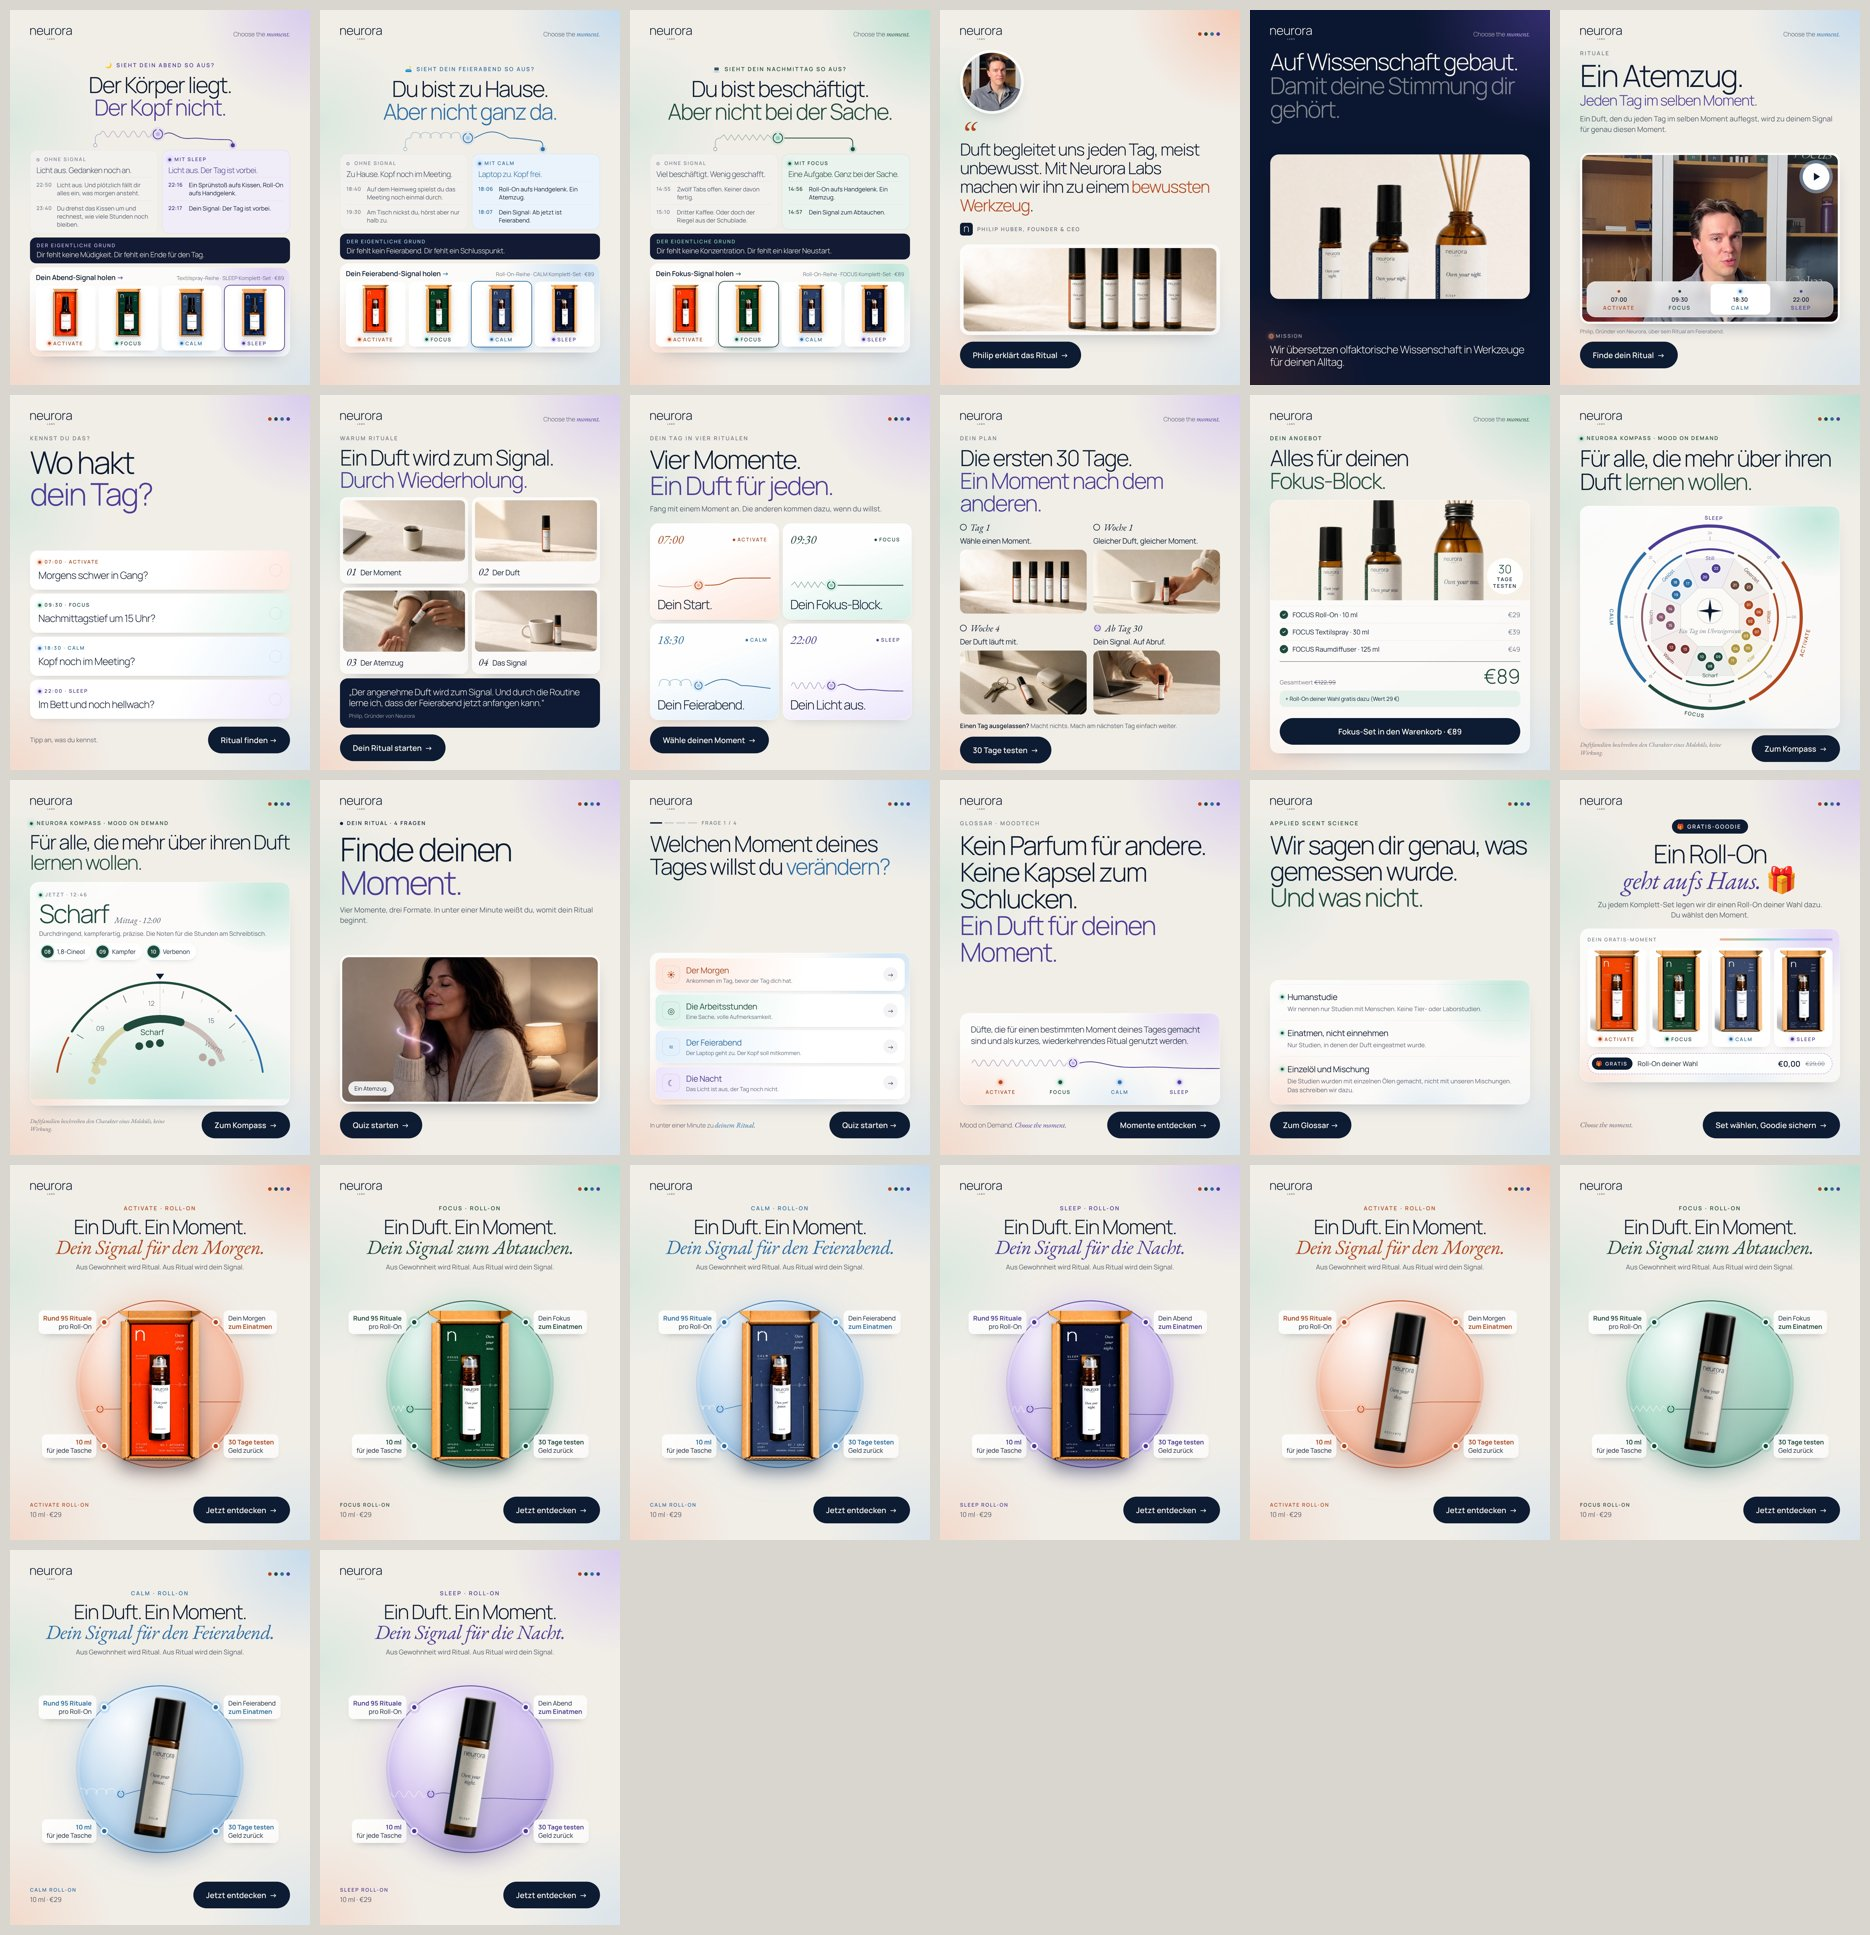
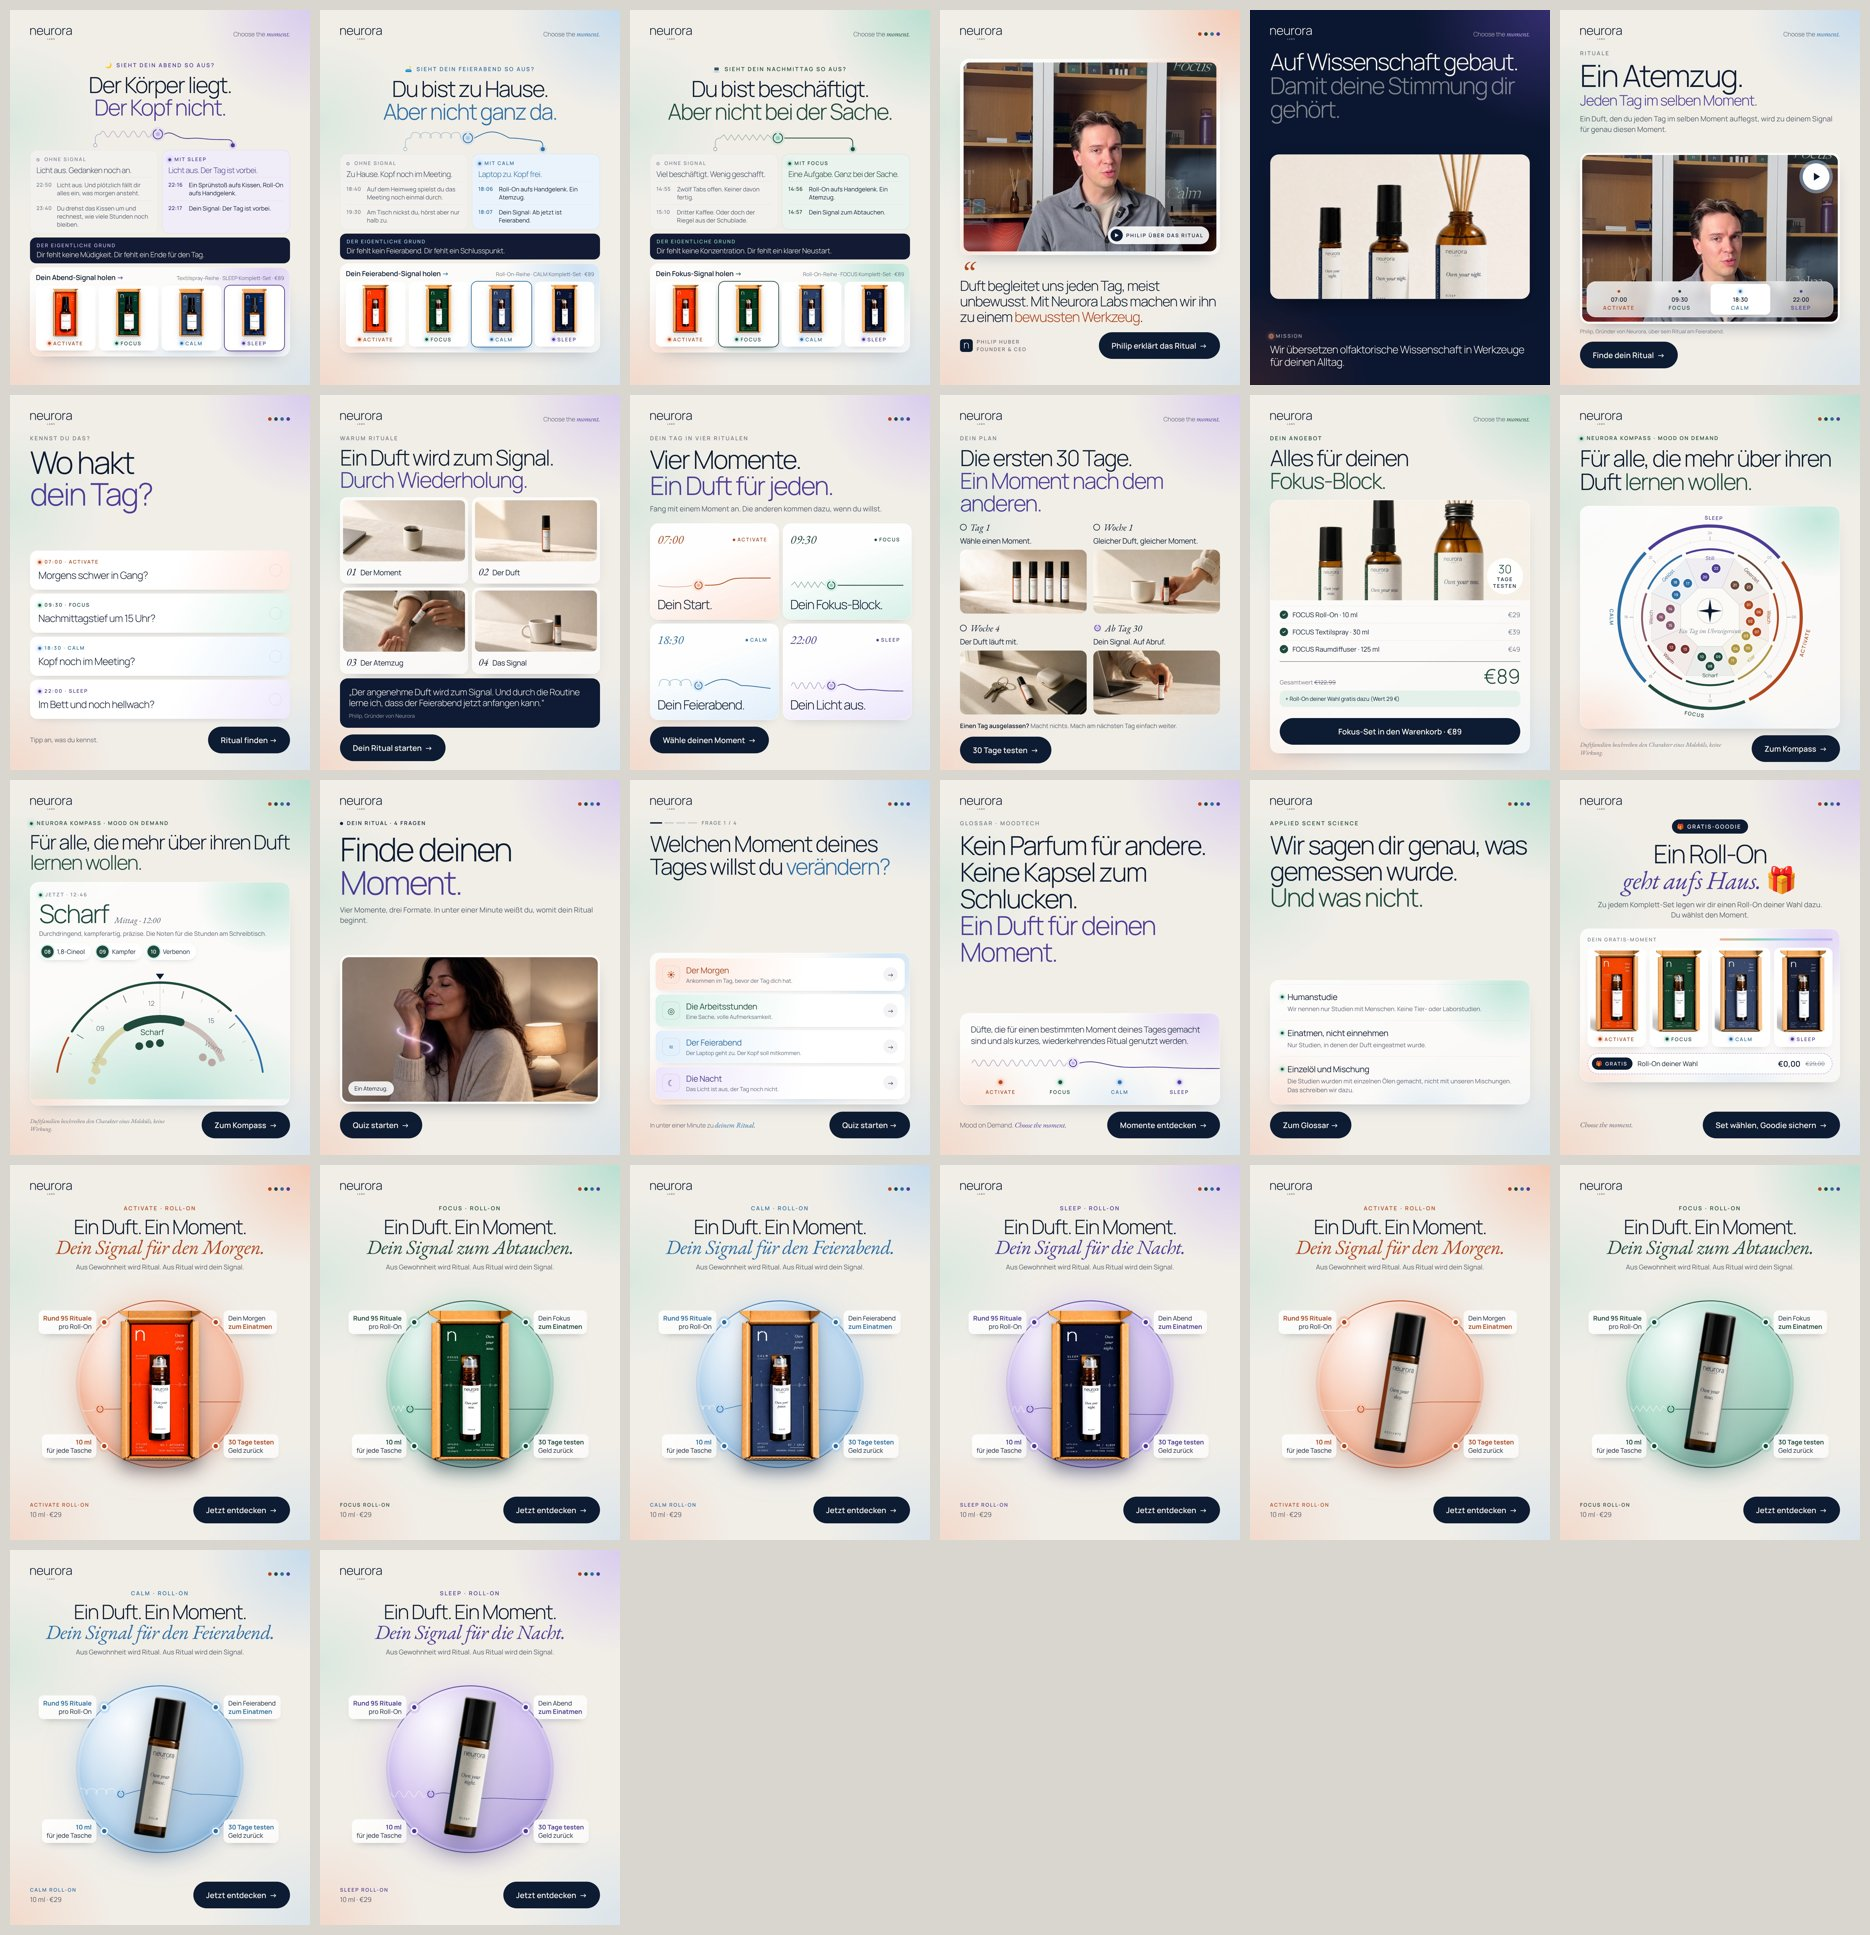
Meta ads: founder ad uses the homepage founder portrait as hero
Claude-Session: https://claude.ai/code/session_01QRoExmTLVyJJqyXzJd8417

Changed region(s): [[0.4963, 0.031, 0.6513, 0.2171]]

diff --git a/ads/meta-rollout-2026-11/source/gen2.py b/ads/meta-rollout-2026-11/source/gen2.py
@@ -142,17 +142,24 @@ def ad_ba(d, fmt):
 
 # ---------- 04 Founder ----------
 def ad_founder(fmt):
-    st = "activate"
-    body = (top(st, "dots")
-      + "<div class='grow' style='display:flex;flex-direction:column;justify-content:center'>"
-      f"<div style='width:230px;height:230px;border-radius:50%;padding:10px;background:rgba(255,255,255,.75);box-shadow:0 22px 50px -32px rgba(13,27,51,.35)'>"
-      f"<img src='{A}nr-philip-portrait-3c.jpg' style='width:100%;height:100%;border-radius:50%;object-fit:cover;object-position:50% 20%'></div>"
-      f"<div class='it' style='font-size:130px;line-height:.6;color:var(--c);height:60px;margin-top:34px'>“</div>"
-      f"<div style='font-size:60px;font-weight:300;letter-spacing:-.04em;line-height:1.12'>Duft begleitet uns jeden Tag, meist unbewusst. Mit Neurora Labs machen wir ihn zu einem <span style='color:var(--c)'>bewussten Werkzeug</span>.</div>"
-      f"<div style='display:flex;align-items:center;gap:16px;margin-top:30px'><div style='width:46px;height:46px;border-radius:10px;background:#0D1B33;display:grid;place-items:center'>{svg_logo('mono', '#F6F3EC', h=22)}</div>"
-      f"<div class='lbl' style='color:rgba(13,27,51,.6);font-size:19px'>Philip Huber, Founder &amp; CEO</div></div></div>"
-      f"<div class='board' style='padding:12px;margin-top:30px'><img src='{A}nr-rituale-66-tag-1.jpg' style='display:block;width:100%;height:300px;object-fit:cover;object-position:62% 55%;border-radius:22px'></div>"
-      + "<div style='margin-top:24px'><div class='btn'>Philip erklärt das Ritual&nbsp; →</div></div>")
+    st = "activate"; tall = fmt == "916"
+    ih = 750 if tall else 680
+    play = ("<div style='position:absolute;right:26px;bottom:26px;display:flex;align-items:center;gap:12px;background:rgba(255,255,255,.9);"
+            "border-radius:999px;padding:10px 20px 10px 10px;box-shadow:0 14px 30px -18px rgba(13,27,51,.5)'>"
+            "<span style='width:44px;height:44px;border-radius:50%;background:#0D1B33;display:grid;place-items:center'>"
+            "<svg width='16' height='18' viewBox='0 0 16 18'><path d='M2 1.5v15l13-7.5z' fill='#F6F3EC'/></svg></span>"
+            "<span class='lbl' style='color:#0D1B33'>Philip über das Ritual</span></div>")
+    body = (top(st, "dots") + "<div class='grow'></div>"
+      + f"<div class='board glow' style='padding:12px'><div style='position:relative'>"
+        f"<img src='{A}nr-founder-ritual-3c-poster.jpg' style='display:block;width:100%;height:{ih}px;object-fit:cover;object-position:50% 78%;border-radius:22px'>"
+        f"{play}</div></div>"
+      + f"<div class='it' style='font-size:120px;line-height:.6;color:var(--c);height:52px;margin-top:30px'>“</div>"
+      + f"<div style='font-size:{54 if tall else 50}px;font-weight:300;letter-spacing:-.04em;line-height:1.12'>Duft begleitet uns jeden Tag, meist unbewusst. Mit Neurora Labs machen wir ihn zu einem <span style='color:var(--c)'>bewussten Werkzeug</span>.</div>"
+      + "<div style='display:flex;align-items:center;justify-content:space-between;gap:20px;margin-top:28px'>"
+        f"<div style='display:flex;align-items:center;gap:14px'><div style='width:46px;height:46px;border-radius:10px;background:#0D1B33;display:grid;place-items:center'>{svg_logo('mono', '#F6F3EC', h=22)}</div>"
+        "<div class='lbl' style='color:rgba(13,27,51,.6);font-size:18px;line-height:1.5'>Philip Huber<br>Founder &amp; CEO</div></div>"
+        "<div class='btn'>Philip erklärt das Ritual&nbsp; →</div></div>"
+      + "<div class='grow'></div>")
     return page("Founder", st, fmt, body)
 
 # ---------- 05 Mission (navy, product centre) ----------

diff --git a/ads/meta-rollout-2026-11/README.md b/ads/meta-rollout-2026-11/README.md
@@ -42,3 +42,4 @@ Before launch: claims marked in the strategy doc (§9) still need Claims Registe
 - **01–03 Vorher/Nachher**: Eyebrow als Frage mit Emoji („🌙 Sieht dein Abend so aus?“, „🛋 … Feierabend …“, „💻 … Nachmittag …“). Statt des Produkt-Chips gibt es ein Frosted Board mit der Produktreihe (01: Textilspray-Reihe, 02/03: Roll-On-Reihe, eigener Zustand hervorgehoben) und CTA. In 9:16 ist alles zentriert und nichts abgeschnitten.
 - **18/19 Roll-On-Ring**: Glas-Scheibe statt flacher Farbfläche. Die Bögen sind oben und unten hervorgehoben, sodass beide Benefit-Paare verbunden sind. Die Callouts stehen als Frosted Pills mit größeren Punkten und fetten Schlüsselwörtern.
 - Layout-Fix für alle Anzeigen: Elemente schrumpfen nicht mehr unbemerkt (keine abgeschnittenen Boards). Die Mindestschriftgröße liegt überall bei 18 px.
+- **04 Founder-Zitat**: Das Porträt von der Startseite (Poster des Gründer-Videos, Philip vor dem Neurora-Regal) ist jetzt das Hero-Bild, im Frosted Board mit „Philip über das Ritual“-Play-Badge. Der runde Avatar und das Produktfoto entfallen.
